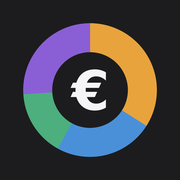
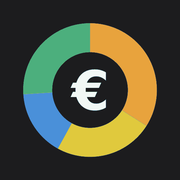
Add files via upload

Changed region(s): [[0.1111, 0.1111, 0.8333, 0.8889]]

diff --git a/app.js b/app.js
@@ -3,15 +3,15 @@
  * dello storico e delle impostazioni, gestione del modale aggiungi/modifica voce.
  */
 
-// Entrate extra: stesso colore dei Risparmi. Investimenti: colore che prima
-// apparteneva a Entrate extra. Allineati ai valori delle CSS custom properties
-// (--entrate/--investimenti in style.css), usati qui per il grafico a torta.
+// Svago: blu. Entrate extra: stesso verde dei Risparmi (il verde che prima
+// era di Svago). Investimenti: giallo, invariato. Allineati ai valori delle
+// CSS custom properties in style.css, usati qui per i grafici.
 const COLORS = {
   necessarie: "#e8a33d",
-  svago: "#4caf7d",
-  risparmi: "#8a5fd6",
+  svago: "#4a90d9",
+  risparmi: "#4caf7d",
   investimenti: "#e0c93d",
-  entrate: "#8a5fd6"
+  entrate: "#4caf7d"
 };
 
 const BUCKET_LABELS = {
@@ -404,9 +404,21 @@ function openRecurringModal(itemId = null) {
   document.getElementById("recurring-amount").value = item ? item.amount : "";
   document.getElementById("recurring-note").value = item ? item.note : "";
 
+  // "Genera round up" ha senso solo per una spesa necessaria o per svago (non
+  // un investimento) e solo se il round up è attivo nelle impostazioni; attivo
+  // di default su una spesa fissa nuova, come per una spesa manuale.
+  document.getElementById("recurring-roundup").checked = item ? !!item.roundUp : true;
+  updateRecurringRoundUpVisibility();
+
   document.getElementById("recurring-delete").classList.toggle("hidden", !isEdit);
   document.getElementById("recurring-modal").classList.remove("hidden");
   setTimeout(() => document.getElementById("recurring-amount").focus(), 50);
+}
+
+function updateRecurringRoundUpVisibility() {
+  const bucket = document.getElementById("recurring-bucket").value;
+  const applicabile = bucket !== "investimenti" && Store.data.settings.roundUp.enabled;
+  document.getElementById("recurring-roundup-row").classList.toggle("hidden", !applicabile);
 }
 
 function closeRecurringModal() {
@@ -426,7 +438,7 @@ function renderRecurringList() {
       (item) => `
       <li data-id="${item.id}">
         <div>
-          <span class="item-note">${escapeHTML(item.note || "—")}</span>
+          <span class="item-note">${escapeHTML(item.note || "—")}${item.roundUp ? '<span class="fisso-badge">round up</span>' : ""}</span>
           <span class="item-category">${RECURRING_BUCKET_LABELS[item.bucket] || item.bucket} · ${escapeHTML(item.category || "")}</span>
         </div>
         <span class="item-amount">${formatEUR(item.amount)}</span>
@@ -446,6 +458,7 @@ function initRecurringModal() {
 
   document.getElementById("recurring-bucket").addEventListener("change", (e) => {
     populateRecurringCategorySelect(e.target.value);
+    updateRecurringRoundUpVisibility();
   });
 
   document.getElementById("recurring-form").addEventListener("submit", (e) => {
@@ -456,10 +469,13 @@ function initRecurringModal() {
     const category = document.getElementById("recurring-category").value;
     if (!amount || amount <= 0 || !note) return;
 
+    const roundUpRowVisibile = !document.getElementById("recurring-roundup-row").classList.contains("hidden");
+    const roundUp = roundUpRowVisibile && document.getElementById("recurring-roundup").checked;
+
     if (recurringModalState.itemId) {
-      Store.updateRecurring(recurringModalState.itemId, { bucket, amount, note, category });
+      Store.updateRecurring(recurringModalState.itemId, { bucket, amount, note, category, roundUp });
     } else {
-      Store.addRecurring({ bucket, amount, note, category });
+      Store.addRecurring({ bucket, amount, note, category, roundUp });
     }
     // Applica subito le spese fisse mancanti a tutti i mesi già aperti, come già
     // succede per le rate: senza questo, aggiungere/modificare una spesa fissa

diff --git a/storage.js b/storage.js
@@ -12,7 +12,10 @@
  *       necessarie: [...nomi], svago: [...nomi], entrate: [...nomi], investimenti: [...nomi]
  *     },
  *     recurringExpenses: [
- *       { id, bucket: "necessarie"|"svago"|"investimenti", amount, note, category }
+ *       // Se roundUp è true, ogni occorrenza mensile di questa spesa fissa
+ *       // genera il proprio round up (arrotondato sul suo importo fisso),
+ *       // esattamente come una rata o una spesa manuale con il flag attivo.
+ *       { id, bucket: "necessarie"|"svago"|"investimenti", amount, note, category, roundUp? }
  *     ],
  *     bonifico: {
  *       fromLabel: "TR", toLabel: "CA",
@@ -312,18 +315,32 @@ const Store = {
     this.save();
   },
 
+  /** Costruisce la voce mensile per una spesa fissa. Se ha il round up attivo
+   * ("r.roundUp"), la genera anche lei ad ogni occorrenza, arrotondata sul suo
+   * importo fisso — stessa logica di buildInstallmentItem per le rate. */
+  buildRecurringItem(r) {
+    const item = {
+      id: uid(),
+      recurringId: r.id,
+      amount: r.amount,
+      note: r.note,
+      category: r.category,
+      date: new Date().toISOString()
+    };
+    if (r.roundUp) {
+      item.roundUp = true;
+      item.roundUpAmount = roundUpDelta(r.amount);
+    }
+    return item;
+  },
+
   seedRecurringInto(month) {
     const recurring = this.data.settings.recurringExpenses || [];
     recurring.forEach((r) => {
       if (!month[r.bucket]) return;
-      month[r.bucket].push({
-        id: uid(),
-        recurringId: r.id,
-        amount: r.amount,
-        note: r.note,
-        category: r.category,
-        date: new Date().toISOString()
-      });
+      const item = this.buildRecurringItem(r);
+      month[r.bucket].push(item);
+      if (item.roundUp) bumpRoundUpItem(month, this.data.settings.roundUp, item.roundUpAmount);
     });
   },
 
@@ -338,14 +355,9 @@ const Store = {
       if (!month[r.bucket]) return;
       const already = month[r.bucket].some((i) => i.recurringId === r.id);
       if (already) return;
-      month[r.bucket].push({
-        id: uid(),
-        recurringId: r.id,
-        amount: r.amount,
-        note: r.note,
-        category: r.category,
-        date: new Date().toISOString()
-      });
+      const item = this.buildRecurringItem(r);
+      month[r.bucket].push(item);
+      if (item.roundUp) bumpRoundUpItem(month, this.data.settings.roundUp, item.roundUpAmount);
       added++;
     });
     this.save();
@@ -479,14 +491,9 @@ const Store = {
         if (!month[r.bucket]) return;
         const already = month[r.bucket].some((i) => i.recurringId === r.id);
         if (already) return;
-        month[r.bucket].push({
-          id: uid(),
-          recurringId: r.id,
-          amount: r.amount,
-          note: r.note,
-          category: r.category,
-          date: new Date().toISOString()
-        });
+        const item = this.buildRecurringItem(r);
+        month[r.bucket].push(item);
+        if (item.roundUp) bumpRoundUpItem(month, this.data.settings.roundUp, item.roundUpAmount);
         added++;
       });
     });

diff --git a/index.html b/index.html
@@ -268,7 +268,8 @@
       <div class="collapsible-body">
         <p class="hint">Le spese che aggiungi qui vengono inserite automaticamente in ogni mese, anche in
           quelli già aperti in precedenza: creare o modificare una spesa fissa aggiorna subito anche i
-          mesi già esistenti.</p>
+          mesi già esistenti. Per una spesa necessaria o per svago puoi anche decidere se genera il round
+          up ad ogni sua occorrenza mensile (se il round up è attivo qui sotto).</p>
         <ul class="item-list" id="list-recurring"></ul>
         <button class="add-btn accent" id="btn-add-recurring">+ Aggiungi spesa fissa</button>
       </div>
@@ -409,6 +410,10 @@
       <label>Categoria
         <select id="recurring-category"></select>
       </label>
+      <div class="checkbox-row hidden" id="recurring-roundup-row">
+        <input type="checkbox" id="recurring-roundup" />
+        <label for="recurring-roundup">Genera round up</label>
+      </div>
       <div class="modal-actions">
         <button type="button" id="recurring-delete" class="btn danger hidden">Elimina</button>
         <button type="button" id="recurring-cancel" class="btn secondary">Annulla</button>

diff --git a/style.css b/style.css
@@ -1,16 +1,17 @@
 :root {
   --necessarie: #e8a33d;
   --necessarie-bg: #fdf1de;
-  --svago: #4caf7d;
-  --svago-bg: #e6f5ec;
-  /* Entrate extra: stesso colore dei Risparmi. Investimenti: colore che prima
-     apparteneva a Entrate extra. */
-  --entrate: #8a5fd6;
-  --entrate-bg: #efe7fa;
+  /* Svago: blu. */
+  --svago: #4a90d9;
+  --svago-bg: #e3eefc;
+  /* Entrate extra: stesso verde dei Risparmi (erano prima il verde di Svago,
+     libero ora che Svago è diventato blu). Investimenti: giallo, invariato. */
+  --entrate: #4caf7d;
+  --entrate-bg: #e6f5ec;
   --investimenti: #e0c93d;
   --investimenti-bg: #fbf7dd;
-  --risparmi: #8a5fd6;
-  --risparmi-bg: #efe7fa;
+  --risparmi: #4caf7d;
+  --risparmi-bg: #e6f5ec;
 
   --bg: #f4f5f7;
   --card-bg: #ffffff;
@@ -33,10 +34,10 @@
     --muted: #9aa1ad;
     --border: #2c2e33;
     --necessarie-bg: #3a2f1a;
-    --svago-bg: #163b28;
-    --entrate-bg: #2c2140;
+    --svago-bg: #1a2f45;
+    --entrate-bg: #163b28;
     --investimenti-bg: #38351a;
-    --risparmi-bg: #2c2140;
+    --risparmi-bg: #163b28;
     --accent-bg: #2a2140;
     --good: #3ab873;
     color-scheme: dark;
